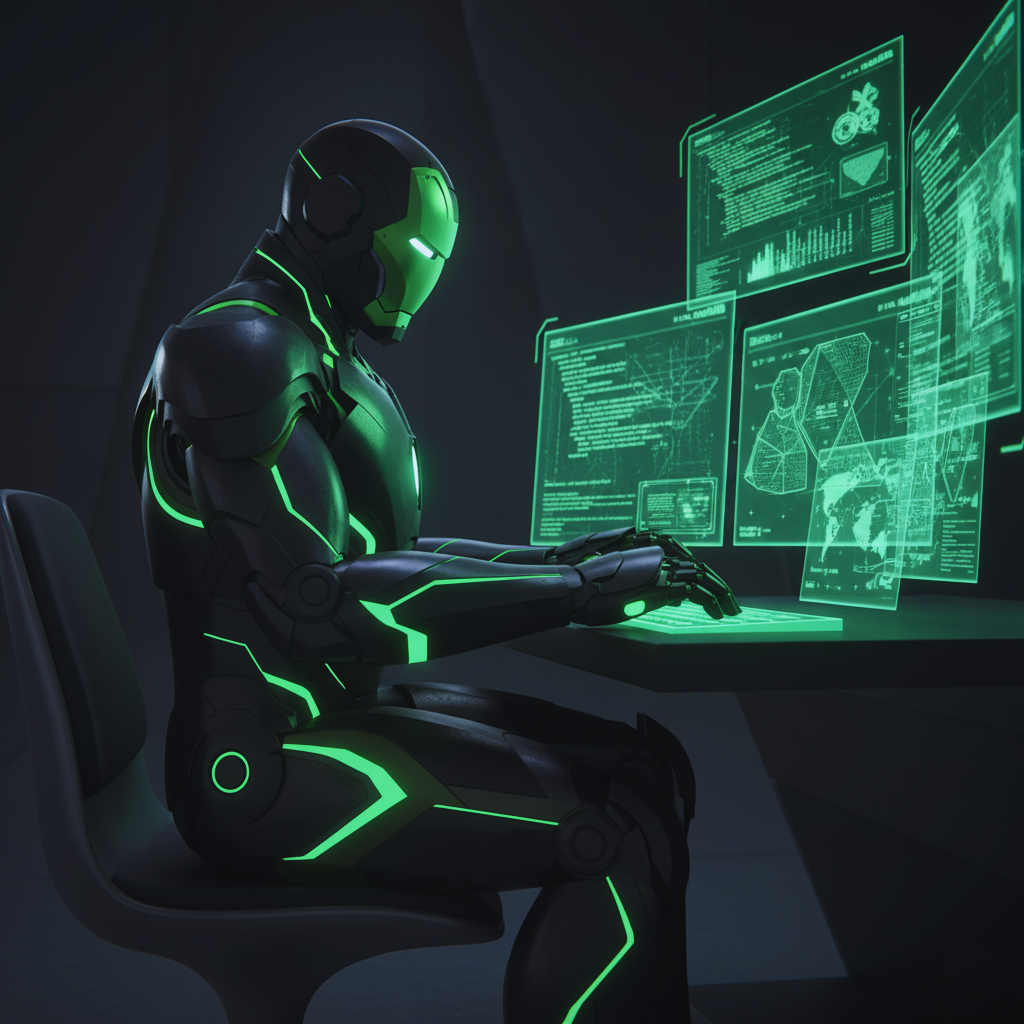
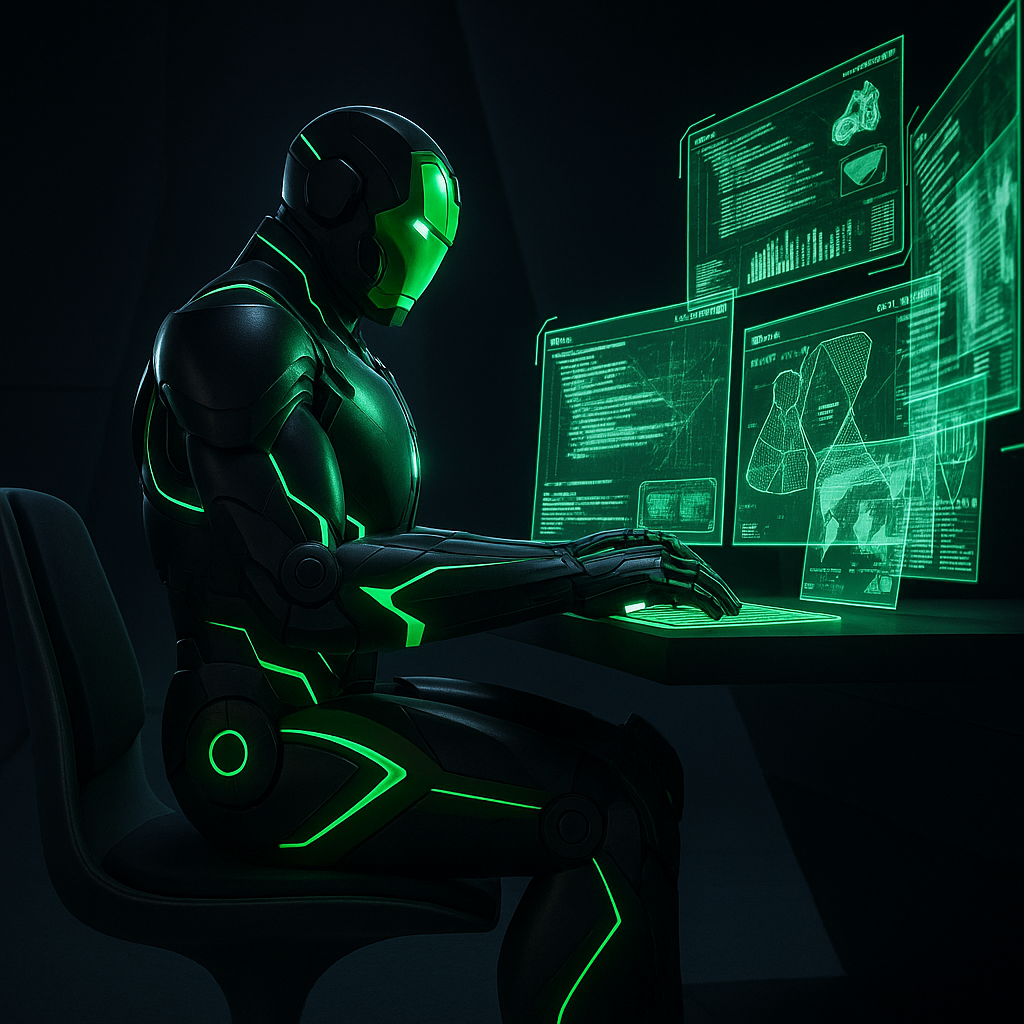
update project image from 'im.png' to 'ironman.png'

diff --git a/src/components/Projects.jsx b/src/components/Projects.jsx
@@ -74,7 +74,7 @@ const Projects = () => {
         {/* LEFT SIDE — Background Image */}
         <div className="relative md:w-1/2 w-full h-80 md:h-auto overflow-hidden rounded-2xl md:rounded-none">
           <motion.img
-            src="/assets/projects/im.png"
+            src="/assets/projects/ironman.png"
             alt="Developer Iron Man"
             className="w-full h-full object-cover object-center opacity-90"
             initial={{ scale: 1.1 }}
